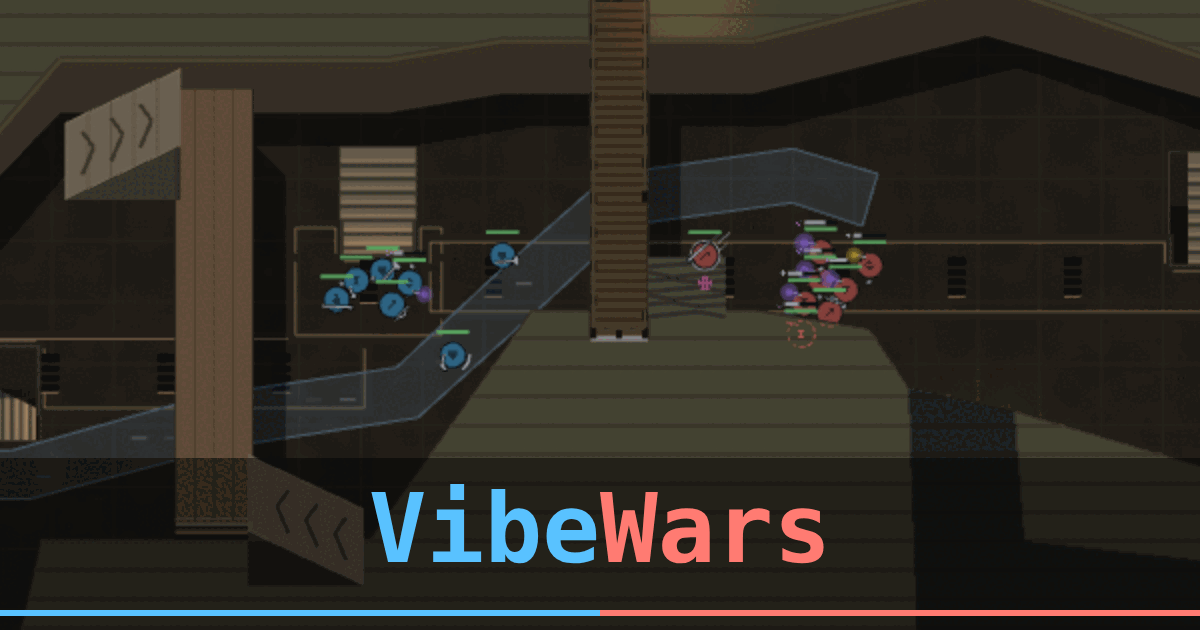
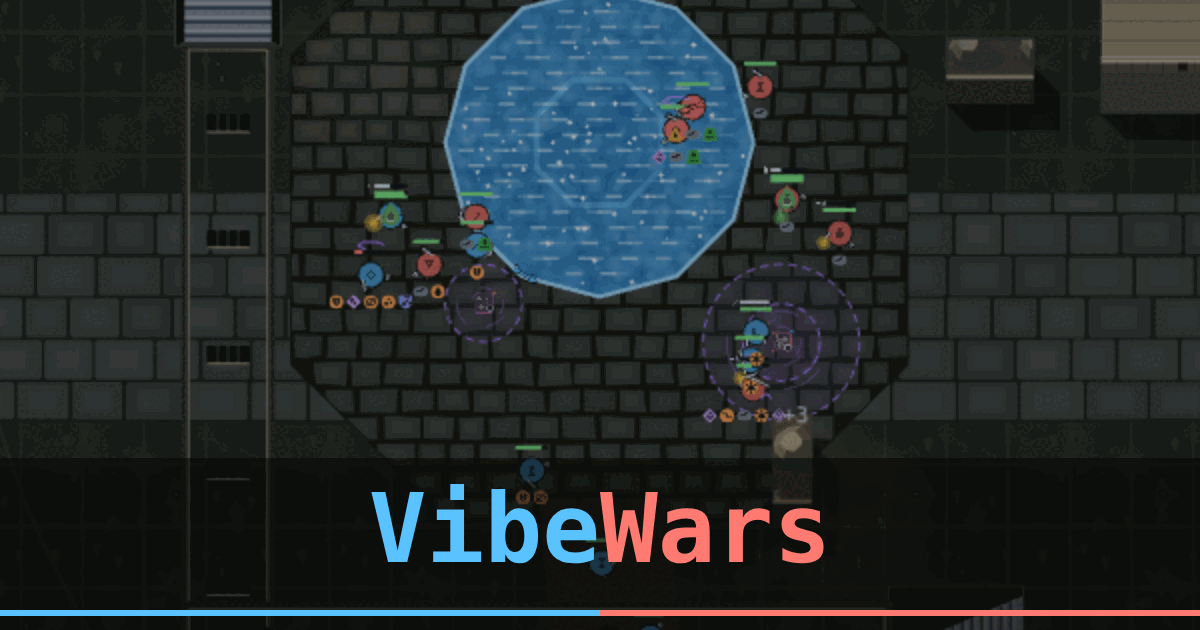
#3879: the link preview fights on Crossroads, busy and clean
share.png is now a crossroads splash fight at 30 s: ~15 bodies of both
teams mixed round the pool, AoE rings and projectiles, and no layer
artefact. The canyon shot had a translucent overpass and a bridge drawn
over the walls.

share-image.mjs takes --crop x,y,w,h (1200:630, CSS px), and per-map
defaults in CROPS, with DEFAULT_MAP the one share.png is taken on. A
--sweep keeps the whole page, so the crop can be picked from it too.
docs/development/share-image.md documents the tool.

diff --git a/docs/development/share-image.md b/docs/development/share-image.md
@@ -1,0 +1,33 @@
+# The link-preview picture
+
+`apps/web/public/share.png` (1200×630) is what a shared link shows
+(#3534). `pnpm run share:image` retakes it from the splash screen: a live
+bot-vs-bot fight with the VibeWars name over it. It is a docs tool, not
+part of CI; run it when the look has moved, wrapped in `company heavy`.
+
+```sh
+company heavy pnpm run share:image
+```
+
+With no options it retakes the committed picture's shot: the map is
+`DEFAULT_MAP` in `scripts/share-image.mjs`, and that map's moment and crop
+come from its `CROPS` table (#3879). The bots fight from a new seed on
+every load, so a re-run is the same map, moment and framing, not the same
+pixels: look at it before you commit it.
+
+| Option           | What it does                                                                                      |
+| ---------------- | ------------------------------------------------------------------------------------------------- |
+| `--map <id>`     | The arena behind the title.                                                                       |
+| `--wait <s>`     | Seconds the fight runs before the shot. Default: the map's in `CROPS`.                            |
+| `--crop x,y,w,h` | The part of the 1200×630 page shot, in CSS px, at 1200:630. It is shot at 2×. Default: the map's. |
+| `--sweep`        | Also keep the whole page every 2 s in `$TMPDIR/share-sweep`.                                      |
+| `--url <url>`    | Shoot a client already served there, instead of building one.                                     |
+
+## Picking a new picture
+
+Sweep several Team Arena maps with `--sweep --wait 40` and look at the
+frames at full size. Pick the moment with the most bodies of every team
+mixed together, and no rendering fault in frame: nothing drawn through a
+bridge or deck, no wall top cut off, no stair laid over a wall. Then add
+the map's `wait` and `crop` to `CROPS` and make it `DEFAULT_MAP`, so a
+re-run takes the same picture.
